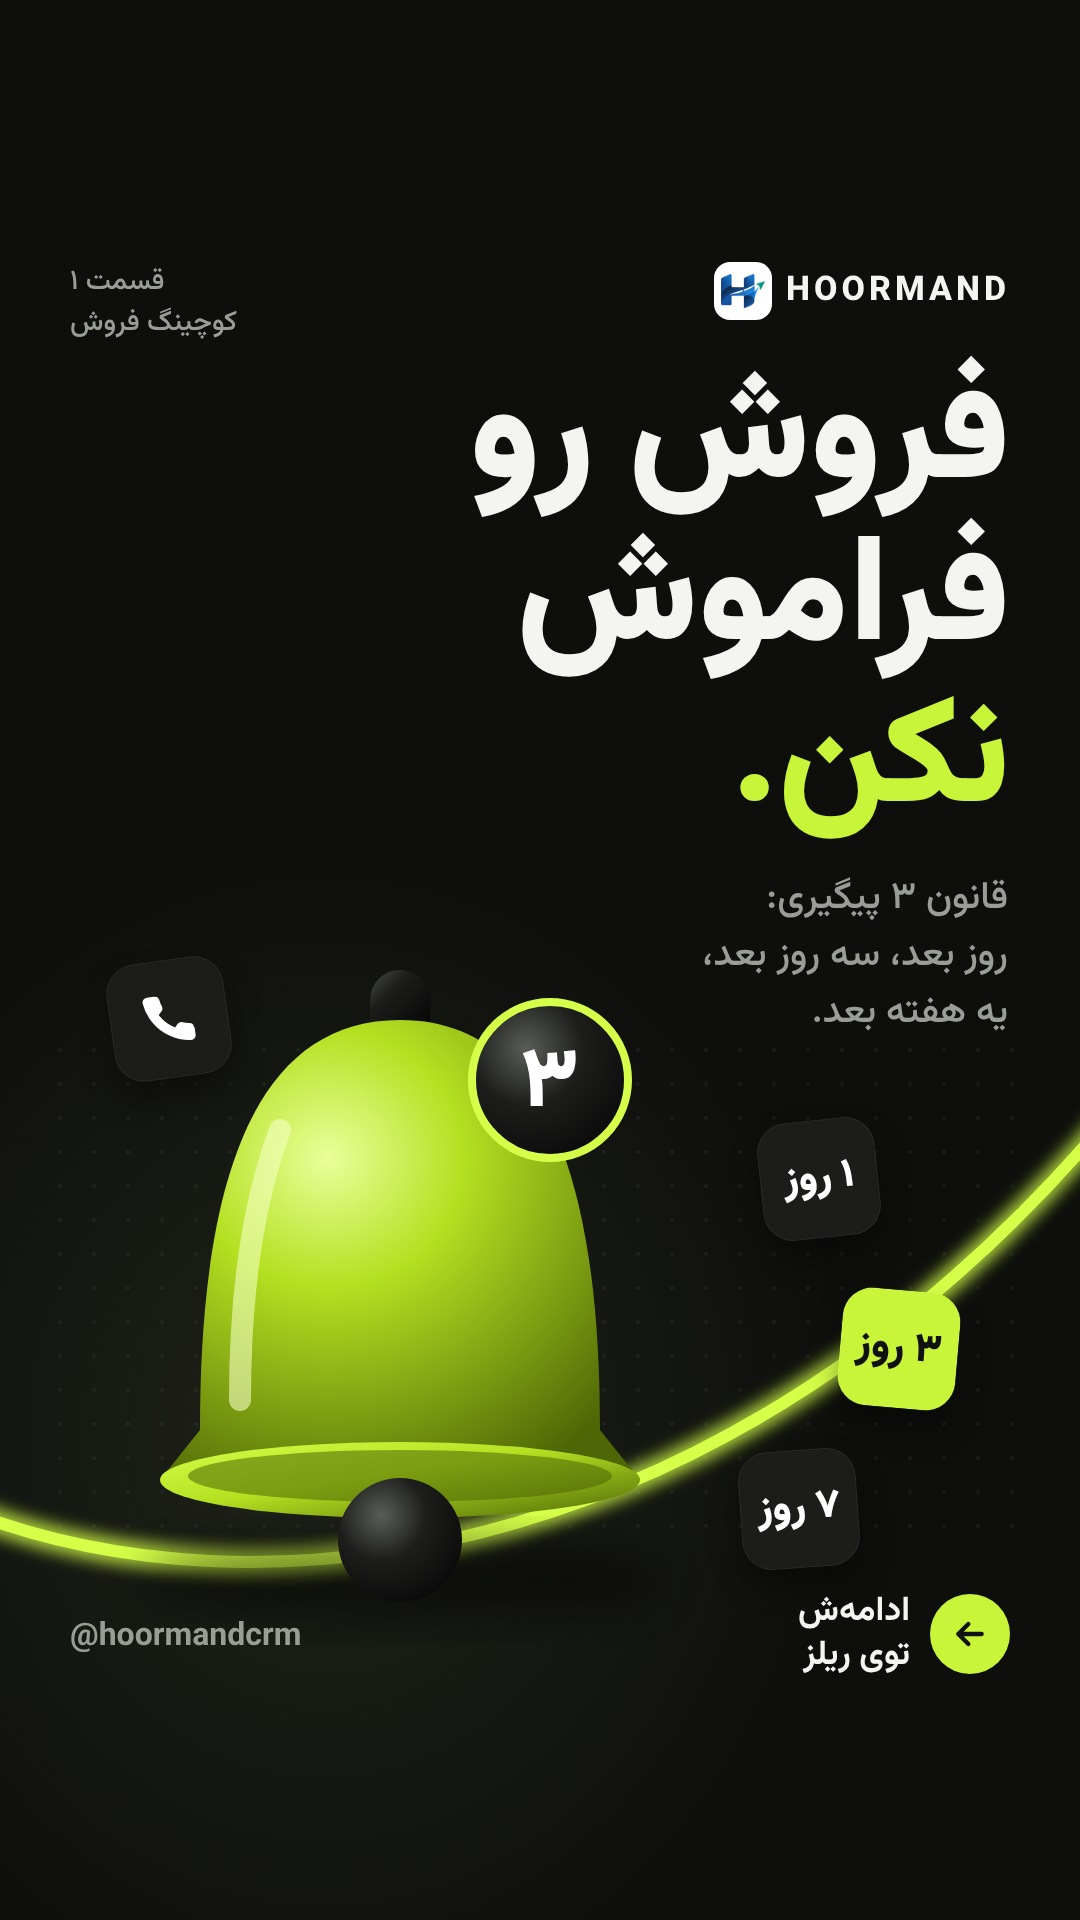
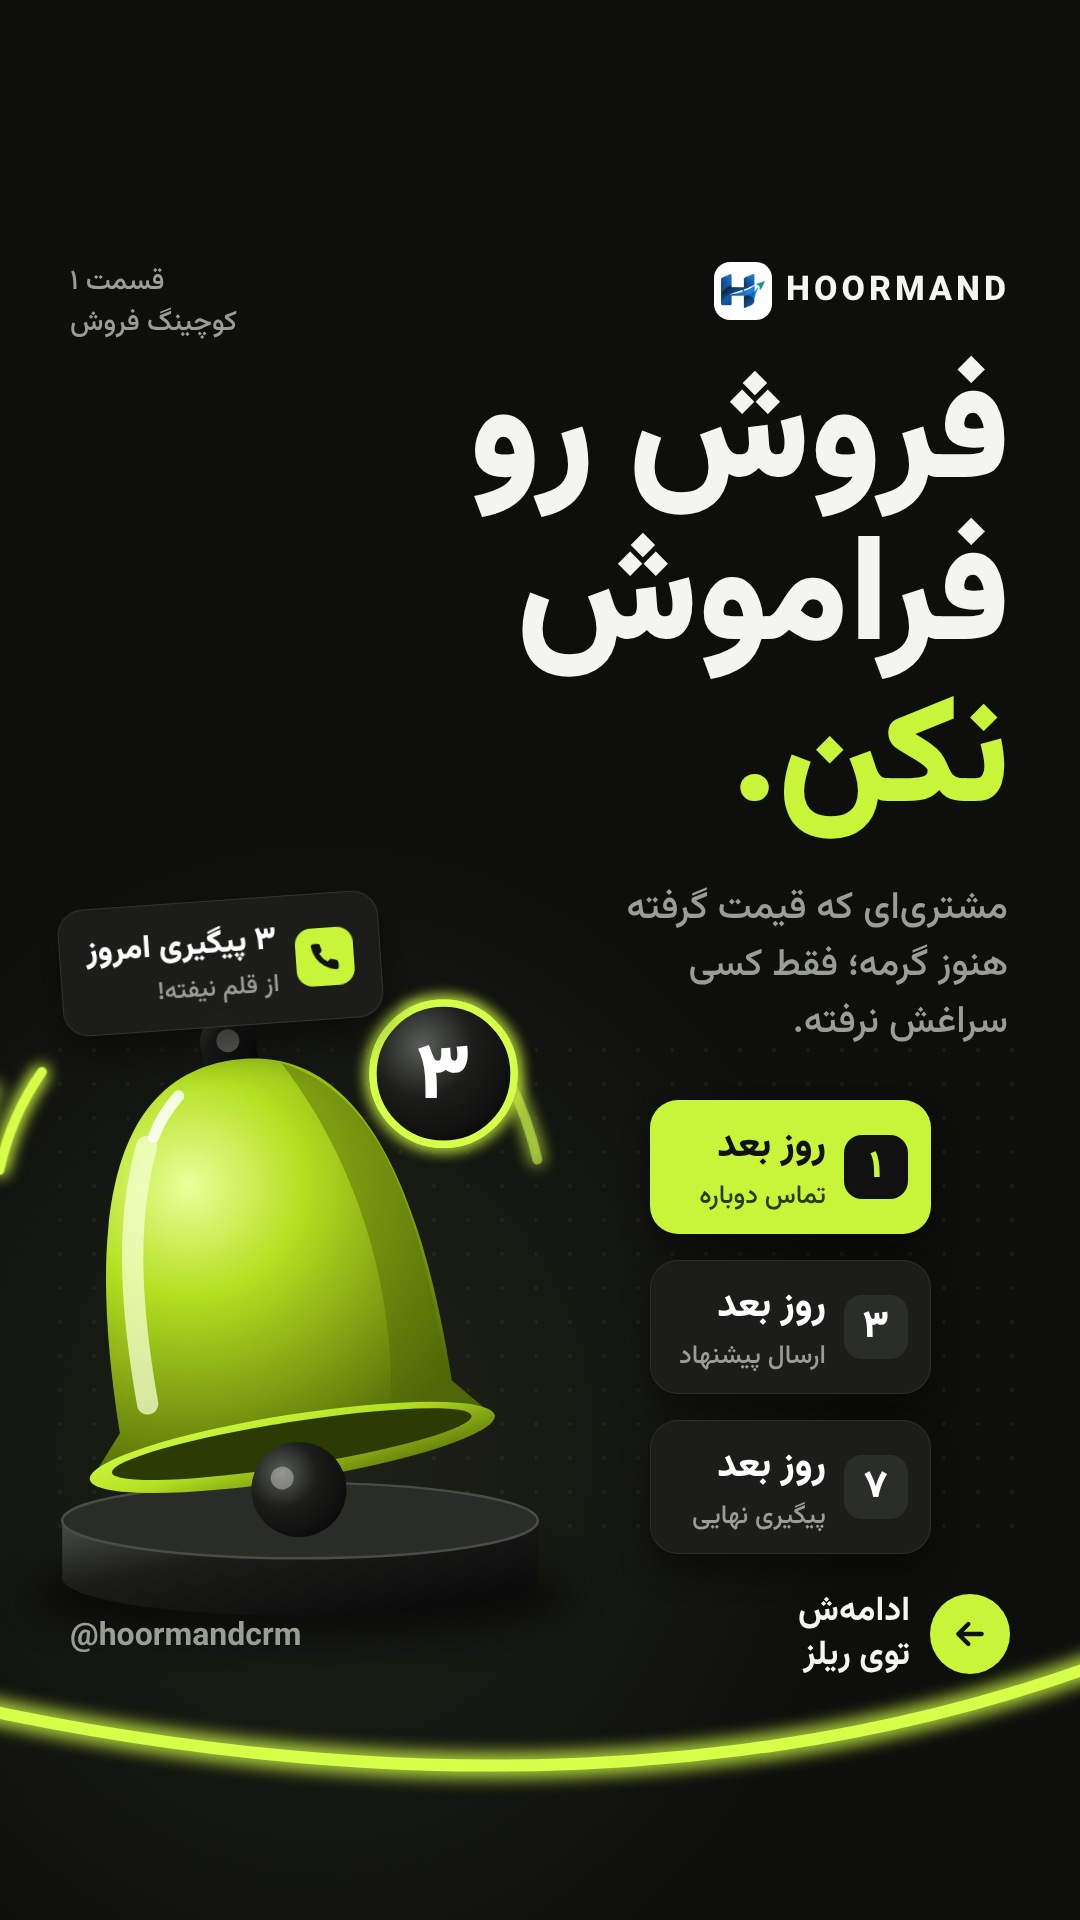
Agency cover: richer 3D bell on a pedestal with vibration arcs, follow-up timeline, toast card (episode 1)
Claude-Session: https://claude.ai/code/session_01UtNw6jRhxUfVwv93D51Yr5

Changed region(s): [[0.0, 0.4375, 1.0, 0.8438], [0.0, 0.8438, 1.0, 0.9375], [0.0, 0.5312, 0.0611, 0.625]]

diff --git a/video-engine/cover-agency.html b/video-engine/cover-agency.html
@@ -34,6 +34,20 @@ svg.full{position:absolute;inset:0;width:1080px;height:1920px}
 .cta b{font:700 34px/1.3 V;color:var(--fg)}
 .handle{position:absolute;top:1612px;left:70px;font:700 32px V;color:var(--mute);direction:ltr}
 #obj{position:absolute;inset:0;width:1080px;height:1920px}
+.tl{position:absolute;display:flex;flex-direction:column;gap:26px}
+.tl .st{display:flex;align-items:center;gap:18px;background:#1c1d1a;border:1px solid rgba(255,255,255,.08);border-radius:28px;padding:16px 22px 16px 28px;box-shadow:0 18px 30px rgba(0,0,0,.4)}
+.tl .st b{width:64px;height:64px;border-radius:18px;background:#2b2d28;display:flex;align-items:center;justify-content:center;font:900 38px V;color:#fff}
+.tl .st span{font:800 38px V;color:#fff;white-space:nowrap}
+.tl .st small{font:500 26px V;color:#9a9d95;display:block}
+.tl .st.on{background:var(--lime);border-color:transparent}
+.tl .st.on b{background:#111;color:var(--lime)}
+.tl .st.on span{color:#111}.tl .st.on small{color:#2d3a06}
+.tl .ln{position:absolute;right:54px;top:50px;bottom:50px;width:4px;background:repeating-linear-gradient(180deg,var(--lime) 0 12px,transparent 12px 22px);z-index:-1}
+.toast{position:absolute;display:flex;align-items:center;gap:18px;background:rgba(28,29,26,.92);border:1px solid rgba(255,255,255,.1);border-radius:26px;padding:18px 26px;box-shadow:0 20px 40px rgba(0,0,0,.45);backdrop-filter:blur(8px)}
+.toast i{width:58px;height:58px;border-radius:16px;background:var(--lime);display:flex;align-items:center;justify-content:center}
+.toast i svg{width:32px;height:32px}
+.toast b{font:800 32px V;color:#fff;display:block}
+.toast small{font:500 25px V;color:#9a9d95}
 </style>
 </head>
 <body>
@@ -62,14 +76,32 @@ const defs = `<defs>
 const OBJ = {
   // notification bell with a badge — follow-ups / reminders
   bell: (x, y, s, badge) => `<g transform="translate(${x} ${y}) scale(${s})">
-    <ellipse cx="0" cy="330" rx="260" ry="40" fill="#000" opacity=".45" filter="url(#soft)"/>
-    <path d="M-30 -250 a30 30 0 0 1 60 0 v30 h-60z" fill="url(#blk)"/>
-    <path d="M-200 180 C -200 -60 -150 -230 0 -230 C 150 -230 200 -60 200 180 L 240 230 L -240 230 Z" fill="url(#limeR)"/>
-    <path d="M-120 -120 C -150 -40 -160 60 -160 150" stroke="#f3ffc2" stroke-width="22" stroke-linecap="round" fill="none" opacity=".6"/>
-    <ellipse cx="0" cy="230" rx="240" ry="38" fill="url(#lime)"/>
-    <ellipse cx="0" cy="226" rx="212" ry="26" fill="${L4}" opacity=".55"/>
-    <circle cx="0" cy="290" r="62" fill="url(#blkR)"/>
-    ${badge ? `<g transform="translate(150 -170)"><circle r="78" fill="url(#blkR)" stroke="${L1}" stroke-width="8"/><text y="26" text-anchor="middle" font-family="V" font-weight="900" font-size="84" fill="#fff">${badge}</text></g>` : ''}
+    <!-- stone pedestal -->
+    <ellipse cx="0" cy="420" rx="330" ry="60" fill="#000" opacity=".55" filter="url(#soft)"/>
+    <path d="M-290 330 v70 a290 46 0 0 0 580 0 v-70z" fill="url(#blk)"/>
+    <ellipse cx="0" cy="330" rx="290" ry="46" fill="#2a2c28"/>
+    <ellipse cx="0" cy="330" rx="290" ry="46" fill="none" stroke="#4a4d46" stroke-width="3"/>
+    <g transform="rotate(-9 0 300)">
+      <!-- vibration arcs -->
+      <g stroke="${L1}" stroke-width="12" stroke-linecap="round" fill="none" filter="url(#glow)">
+        <path d="M-300 -150 a330 330 0 0 1 70 -110"/><path d="M-350 -60 a420 420 0 0 1 60 -190" opacity=".55"/>
+        <path d="M300 -150 a330 330 0 0 0 -70 -110"/><path d="M350 -60 a420 420 0 0 0 -60 -190" opacity=".55"/>
+      </g>
+      <path d="M-34 -262 a34 34 0 0 1 68 0 v34 h-68z" fill="url(#blk)"/>
+      <circle cx="0" cy="-262" r="14" fill="#5a5d57"/>
+      <!-- body -->
+      <path d="M-205 190 C -205 -70 -150 -238 0 -238 C 150 -238 205 -70 205 190 L 248 240 L -248 240 Z" fill="url(#limeR)"/>
+      <path d="M60 -225 C 170 -170 200 -40 200 190 L 248 240 L 120 240 C 150 120 150 -60 60 -225Z" fill="${L4}" opacity=".45"/>
+      <path d="M-118 -150 C -160 -60 -168 50 -166 160" stroke="#f6ffd1" stroke-width="26" stroke-linecap="round" fill="none" opacity=".75"/>
+      <path d="M-70 -205 C -88 -190 -100 -175 -108 -160" stroke="#fff" stroke-width="14" stroke-linecap="round" fill="none" opacity=".85"/>
+      <!-- lip -->
+      <ellipse cx="0" cy="240" rx="250" ry="40" fill="url(#lime)"/>
+      <ellipse cx="0" cy="236" rx="222" ry="27" fill="#2c3a03"/>
+      <!-- clapper -->
+      <circle cx="0" cy="292" r="58" fill="url(#blkR)"/>
+      <circle cx="-18" cy="275" r="14" fill="#fff" opacity=".35"/>
+    </g>
+    ${badge ? `<g transform="translate(175 -215)"><circle r="86" fill="url(#blkR)" stroke="${L1}" stroke-width="9" filter="url(#glow)"/><circle r="86" fill="url(#blkR)"/><circle r="86" fill="none" stroke="${L1}" stroke-width="9"/><text y="30" text-anchor="middle" font-family="V" font-weight="900" font-size="96" fill="#fff">${badge}</text></g>` : ''}
   </g>`,
   // megaphone — advertising
   megaphone: (x, y, s) => `<g transform="translate(${x} ${y}) scale(${s}) rotate(-18)">
@@ -112,6 +144,16 @@ window.buildCover = async function (d) {
   (d.chips || []).forEach(ch => { const e = document.createElement('div'); e.className = 'chip'; e.style.left = ch.x + 'px'; e.style.top = ch.y + 'px'; e.style.transform = `rotate(${ch.r || 0}deg)`;
     e.innerHTML = ch.icon ? `<svg viewBox="0 0 24 24">${ICON[ch.icon]}</svg>` : `<span>${ch.text}</span>`; if (ch.lime) { e.style.background = 'var(--lime)'; e.querySelector('span') && (e.querySelector('span').style.color = '#111'); }
     chips.appendChild(e); });
+  if (d.timeline) {
+    const t = document.createElement('div'); t.className = 'tl'; t.style.left = d.timeline.x + 'px'; t.style.top = d.timeline.y + 'px';
+    t.innerHTML = '<div class="ln"></div>' + d.timeline.items.map(it => `<div class="st ${it.on ? 'on' : ''}"><b>${it.n}</b><div><span>${it.label}</span><small>${it.note || ''}</small></div></div>`).join('');
+    document.getElementById('c').appendChild(t);
+  }
+  if (d.toast) {
+    const t = document.createElement('div'); t.className = 'toast'; t.style.left = d.toast.x + 'px'; t.style.top = d.toast.y + 'px'; t.style.transform = `rotate(${d.toast.r || 0}deg)`;
+    t.innerHTML = `<i><svg viewBox="0 0 24 24">${ICON[d.toast.icon || 'check'].replace(/#fff/g, '#111')}</svg></i><div><b>${d.toast.title}</b><small>${d.toast.text}</small></div>`;
+    document.getElementById('c').appendChild(t);
+  }
   document.getElementById('cta').innerHTML = d.cta || 'ادامهش<br>توی ریلز';
   document.getElementById('handle').textContent = '@' + d.instagram;
   await document.fonts.ready;

diff --git a/video-engine/README.md b/video-engine/README.md
@@ -97,7 +97,7 @@ The default is `"style": "agency"`, after Ramtin's Pinterest reference. It uses 
 - a big bold headline in `lines`; the last line is lime
 - a small `sub` text
 - a 3D-looking object that fits the topic, set in `object`. The types so far are `bell` (follow-ups, with an optional `badge`) and `megaphone` (advertising); more can be added in `OBJ`.
-- floating icon or text `chips`
+- floating icon or text `chips`, an optional `timeline` (step cards joined by a dashed line; one can be `on`), and an optional `toast` notification card
 - a glowing lime sweep line and a dot grid
 - a lime arrow button with «ادامهش توی ریلز», and @hoormandcrm
 
